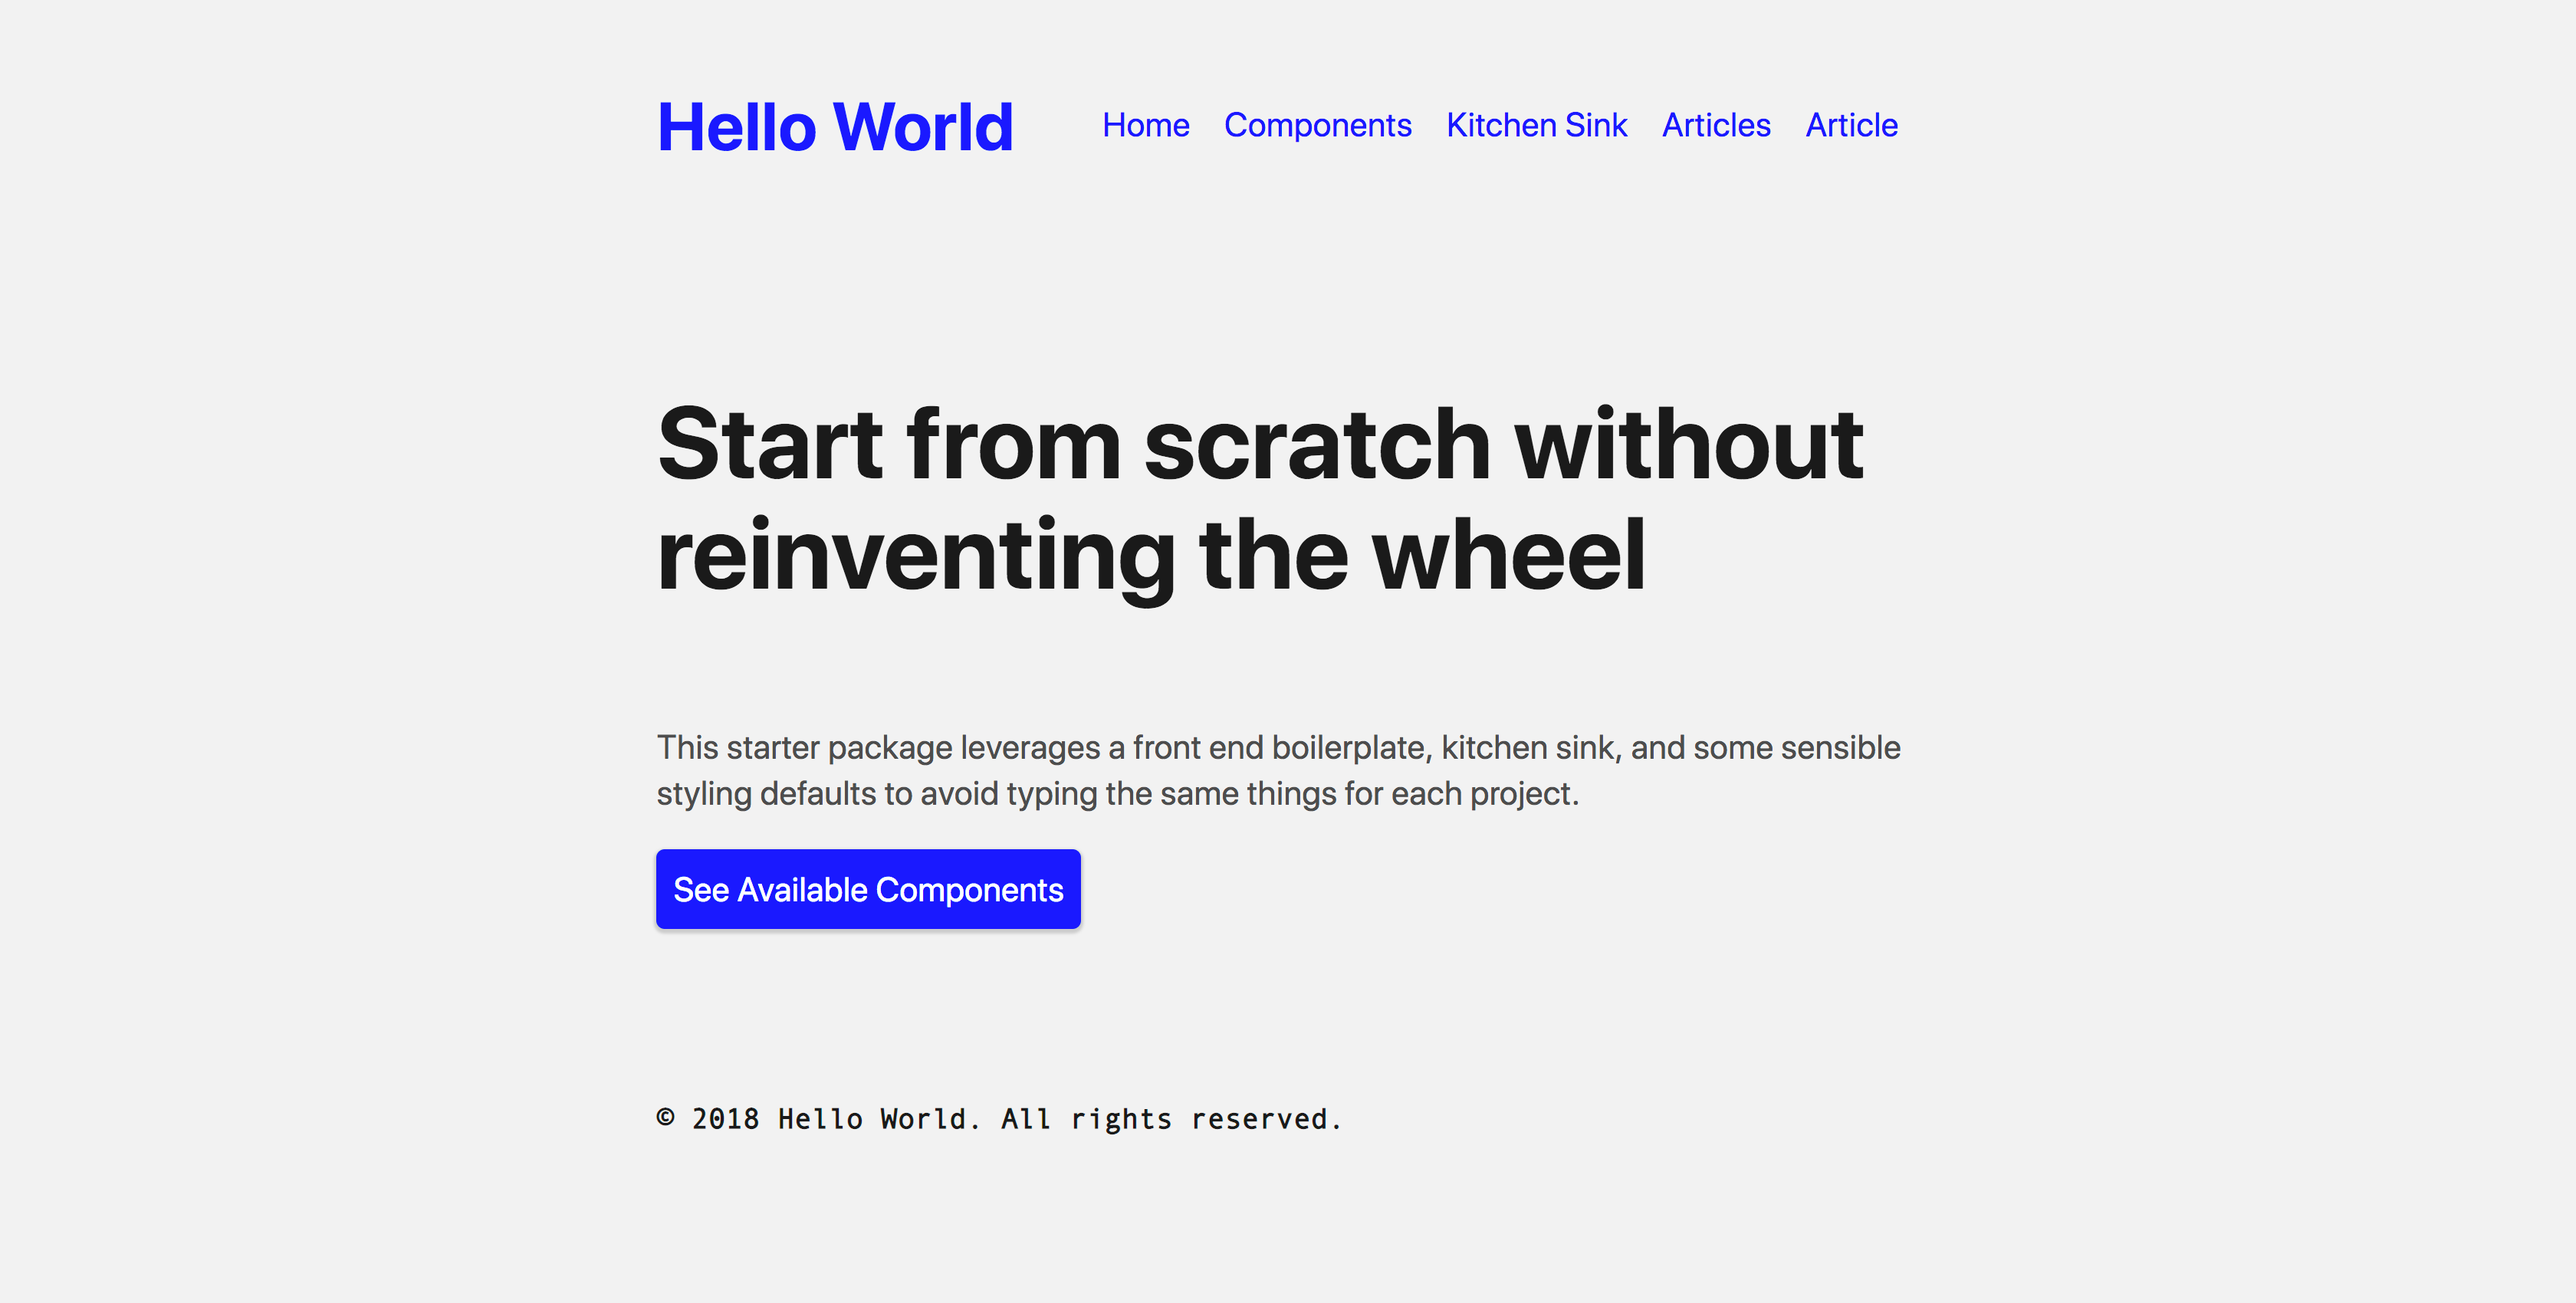
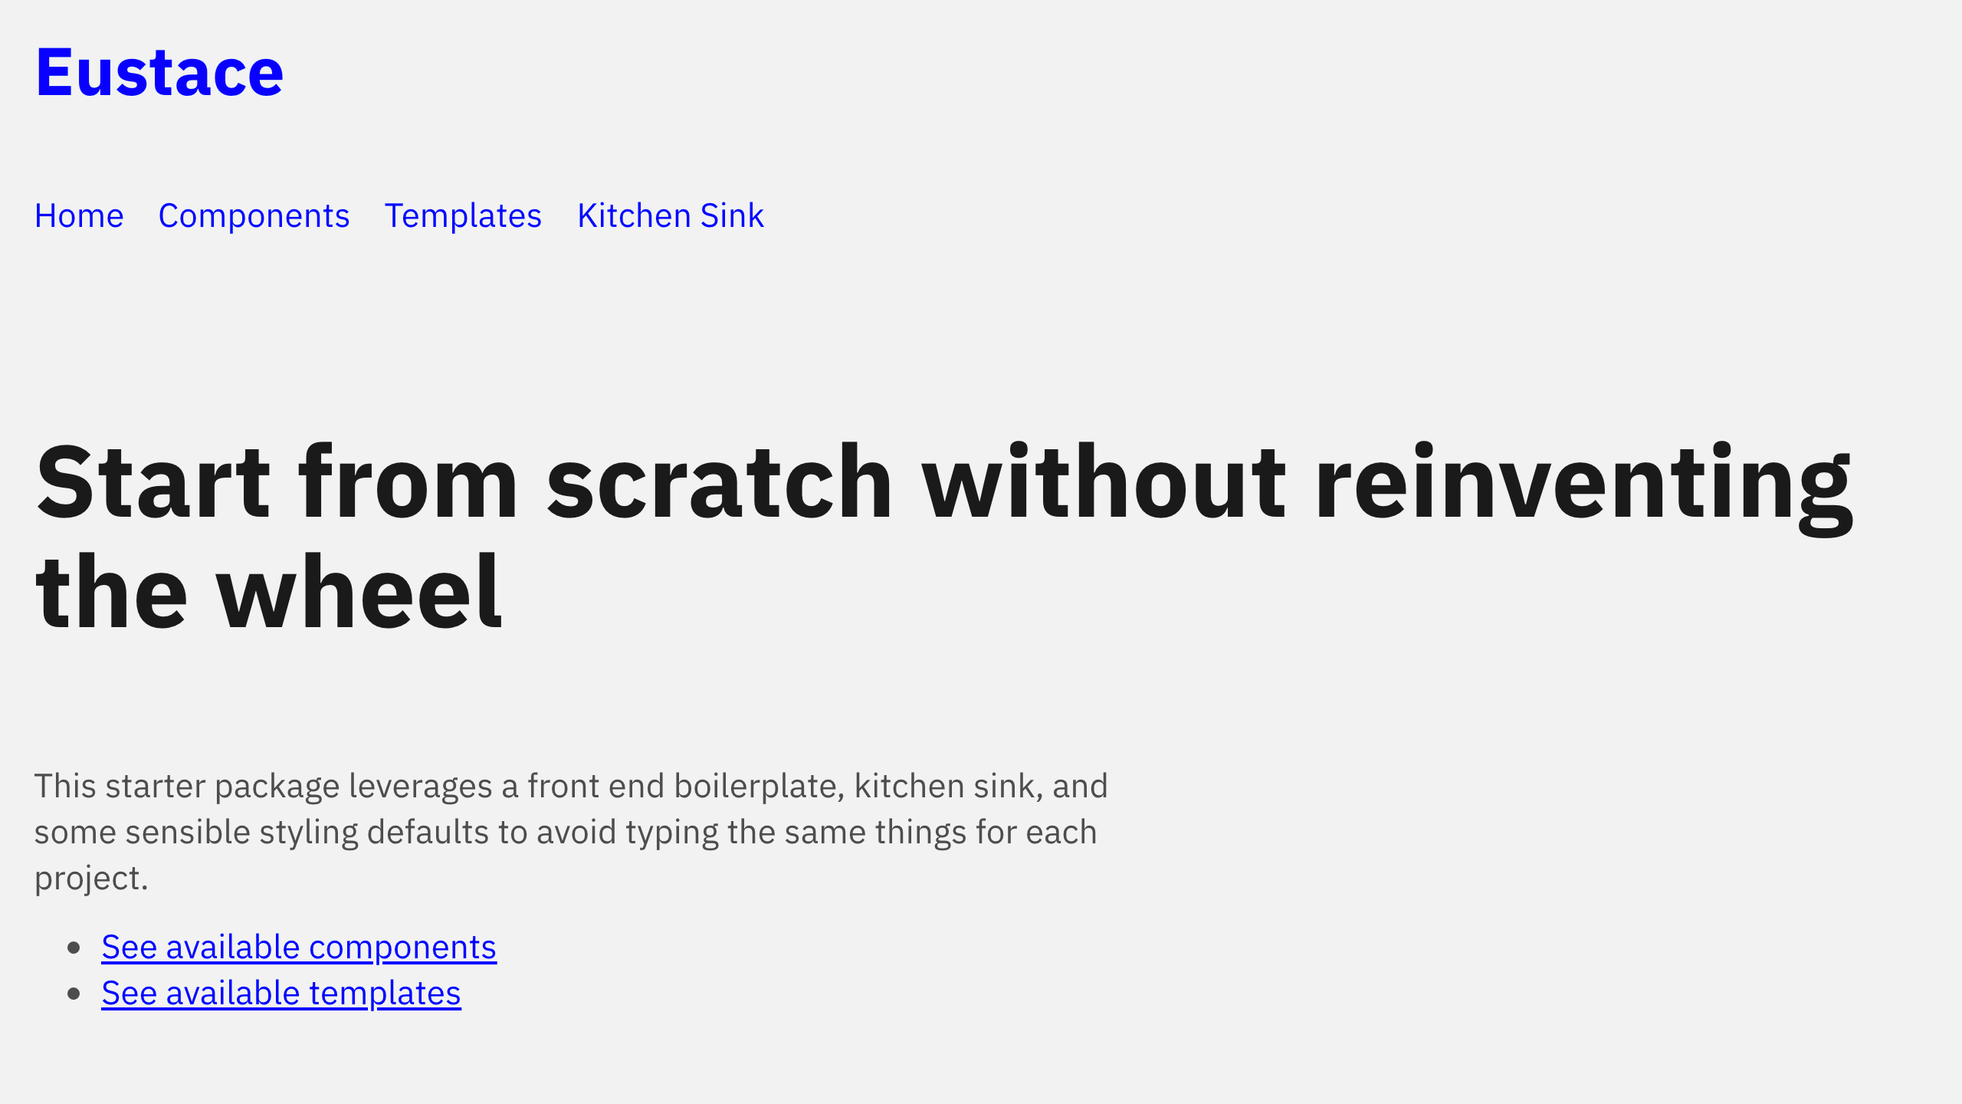
Update screenshot

diff --git a/CHANGELOG.md b/CHANGELOG.md
@@ -34,11 +34,14 @@ and this project adheres to [Semantic Versioning](https://semver.org/spec/v2.0.0
 ### Security
 -->
 
-<!-- ## 2.0.4 - 2018-12-XX - Text Inputs, Radio Buttons
+## 2.0.4 - 2018-12-XX - Text Inputs, Radio Buttons
 
-### Added
+<!-- ### Added
 - TODO: Add [Accessibility First Text Input](https://dev.to/link2twenty/accessibility-first-text-input-1l7l)
 - TODO: Add [Accessibility First Radio Buttons](https://dev.to/link2twenty/accessibility-first-radio-buttons-2302) -->
+
+### Changed
+- Update screenshot
 
 ## 2.0.3 - 2018-12-10 - Breadcrumb, Toggle
 
